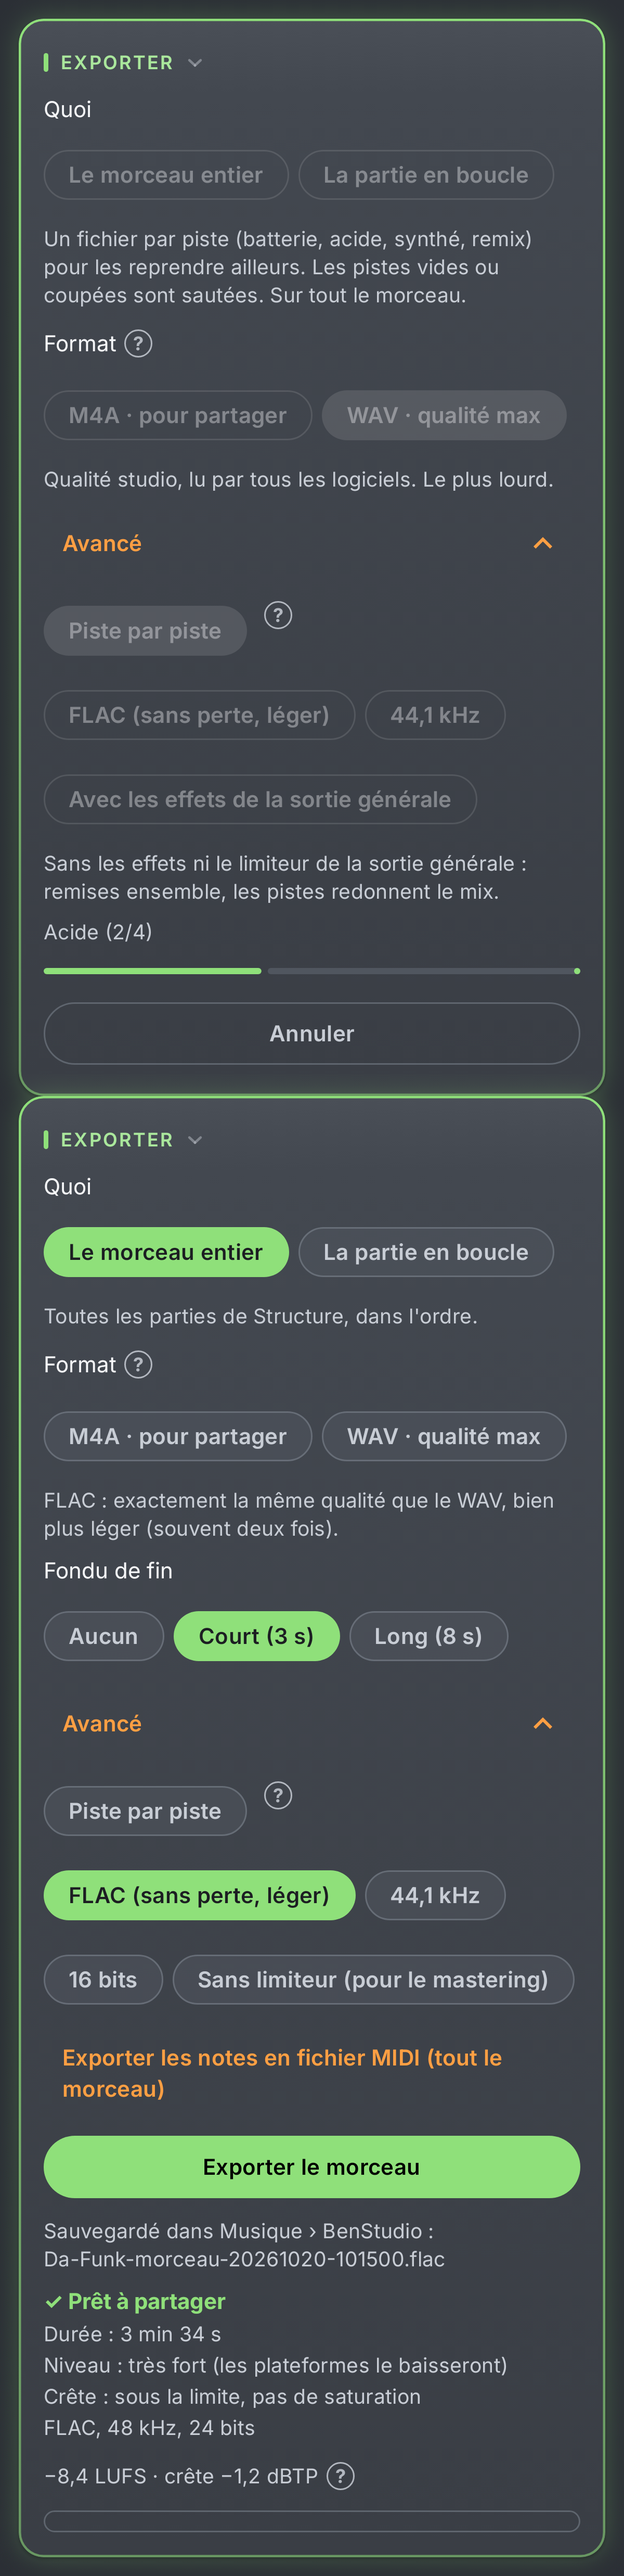
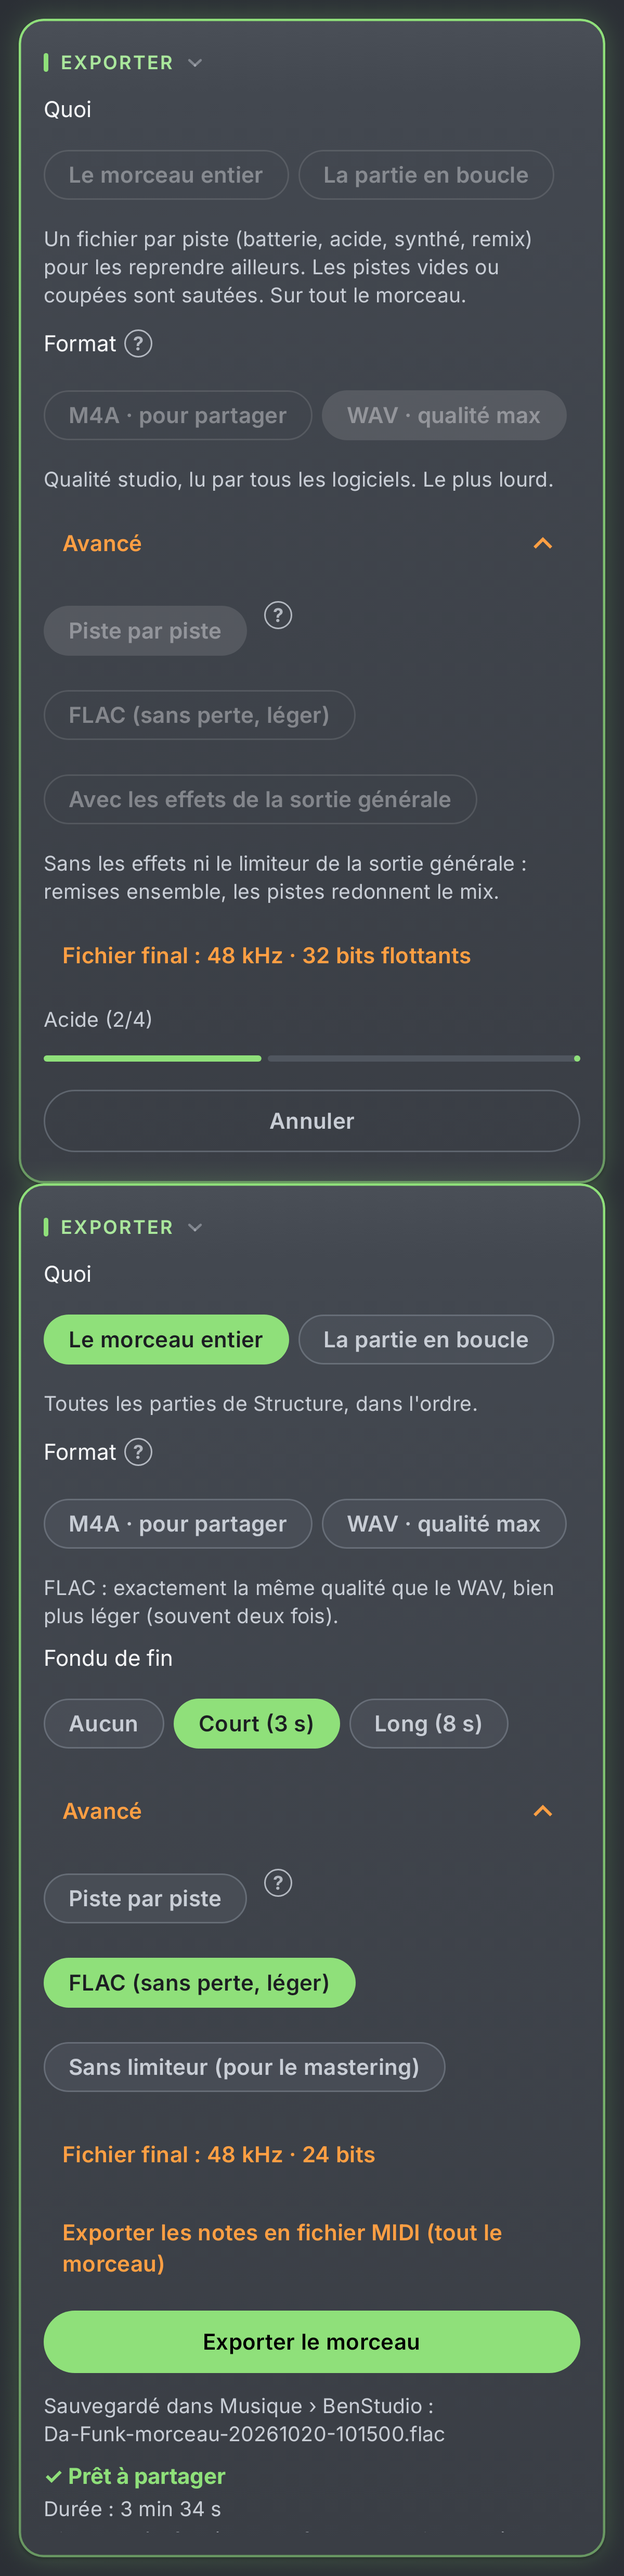
Lot E note: matrix results (30/30 in pairs, stems null), CPU bench before/after, export card capture re-recorded
Claude-Session: https://claude.ai/code/session_01NqonxZBBysqqWBbnsC2VTP

Changed region(s): [[0.0308, 0.3422, 0.925, 0.9956], [0.9558, 0.4044, 0.9867, 0.4667]]

diff --git a/docs/lots/E.md b/docs/lots/E.md
@@ -47,5 +47,13 @@ Branche `fx-e` (2026-11-03). Commandes moteur 190 et 191 (plage E : 190 à 209).
 - Spectre de la référence superposé à l'analyseur en direct (aujourd'hui : dans le rapport).
 - Mise en forme du dither propre à 96 kHz (le filtre de Lipshitz est calculé pour 44,1 ; à 96 kHz le bruit part au-dessus de 20 kHz, mieux encore, mais non optimisé).
 
+## Résultats (2026-11-03)
+- **Matrice en paires : 30 cas sur 30 OK, stems des 5 styles OK** (`build/matrix/report.md`, jamais commité). LUFS à ±0,2 de la cible pour toutes les cibles pro ; crête vraie sous le plafond dans tous les cas après encodage (M4A décodé compris) ; fichiers lus par ffmpeg (codec, fréquence, bits, durée, titre, artiste). Stems : résidu −103 (dnb), −92 (house, sans envois), −75 (lofi), −237 (techno), −97 dB (trap, sans envois).
+- Notés, pas échoués : « comme le style » visé au Drop sur 3 cas où la chaîne prend déjà ses 3 LU (Drop à −8,0 pour −7,5 en dnb, −8,2 pour −7,5 en techno, −9,3 pour −8 en house M4A) ; club −9 en M4A sur la dnb : −9,8 (la chaîne prend son maximum, 6,9 LU : on ne tasse pas plus).
+- **Défaut trouvé par la matrice et corrigé** : un fichier rééchantillonné (44,1 ou 96 kHz) d'un mix limité à 48 kHz dépassait le plafond de 0,1 à 0,3 dB (c01, c03, c05, c09, c24, c29) ; un limiteur true peak repasse maintenant à la fréquence du fichier (`OfflineRenderer::Output`, plafond du master). Règle « partout » : tous les exports rééchantillonnés passent par cet `Output` (WAV, FLAC, M4A, stems avec limiteur) ; les rendus en mémoire restent à 48 kHz. Matrice = le test qui couvre.
+- **Banc CPU `m17_worst_case_live_cpu_bench`** (avant = fx-int, après = fx-e, en alternance, 3 fois) : moyenne avant 29,6 / 25,0 / 26,0 %, après 23,5 / 22,7 / 24,5 % ; p99 avant 46,8 / 36,5 / 39,3 %, après 37,1 / 37,2 / 38,3 % : pas de recul (le chemin A/B ne coûte qu'une branche quand il est désarmé). Marge non regagnée : rien dans ce lot ne touchait le coût du direct ; à mesurer sur le téléphone. `master_cpu_budget` (1,9 à 2,0 % pour 2 %) et `drive_effects_cpu` échouent parfois, avant comme après, sur ce conteneur chargé (instables, déjà là).
+
 ## Reste
-- Résultats de la matrice et du banc CPU (ci-dessous, à compléter).
+- `master_cpu_budget` et `drive_effects_cpu` à la limite sur ce conteneur (instables avant le lot aussi) : à regarder avant G.
+- La matrice complète (toute la chanson, `MATRIX_SECONDS=1000`, toutes les combinaisons) : étage 1 de l'Audit.
+- L'écoute A/B et la référence ne sont testées que sur le banc hôte et par la logique de l'appli : à écouter sur le téléphone (liste de Benjamin, moment 1 : « master Spotify et master club »).
